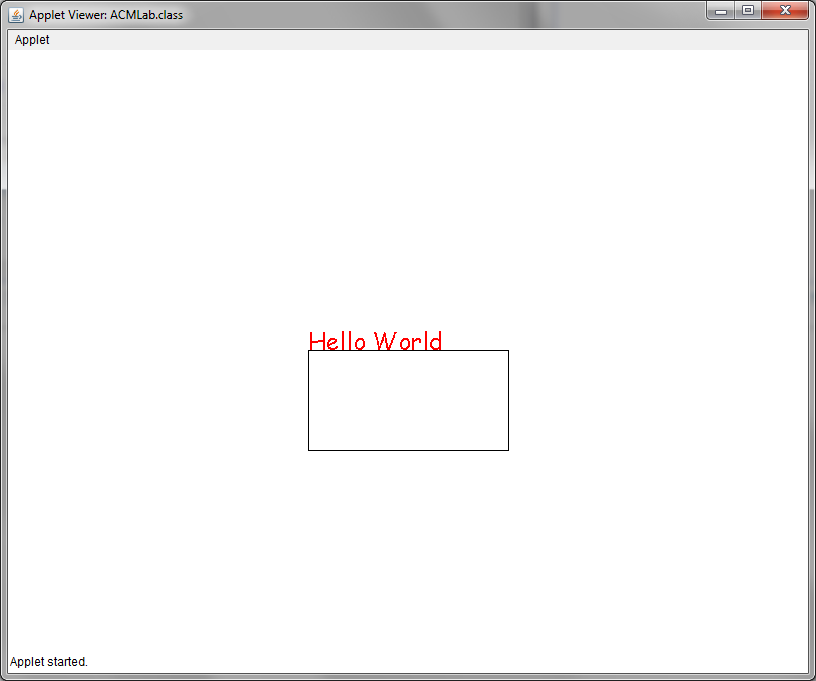
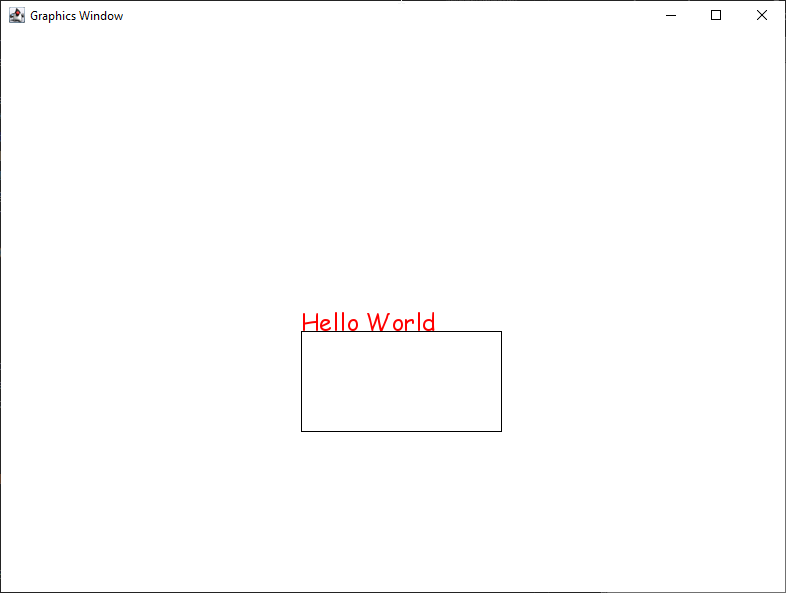
lab 4 media ACM

Changed region(s): [[0.0, 0.0, 1.0, 1.0], [0.3664, 0.4857, 0.6412, 0.6678]]

diff --git a/docs/labs/4-ACM.md b/docs/labs/4-ACM.md
@@ -106,7 +106,7 @@ The ```requestFocus``` call just allows the window to be the active window
 for both the mouse and the keyboard, which will be useful in the future.
 Other than changing the size, you should leave the ```init``` method alone.
 
-- **public static void main(String args[])**  You've seen line 19 and 21 before, but what may be interesting here is how empty our main is, and Line 20.  **Please don't spend too much time thinking about or copying Line 20 for your own future code**.  Think of this main function that we have as template (aka boilerplate) code that will be in most graphical programs, you should not need to modify the mains for the graphical programs that you create.  This small function tells java how to start your program.  If you notice, it just creates a ```new ACMLab``` (which it does not even save into a variable! :disappointed:) and then calls ```start```, which is an internal call that helps set up the graphics window and get everything started.  You should in most cases, leave this main alone.  Instead, just focus on putting your code for graphics programs in the method we'll discuss below, ```run```.
+- **public static void main(String args[])**  You've seen line 19 and 21 before, but what may be interesting here is how empty our main is, and Line 20.  **Please don't spend too much time thinking about or copying Line 20 for your own future code**.  Think of this main function that we have as template (aka boilerplate) code that will be in most graphical programs, you should not need to modify the mains for the graphical programs that you create.  This small function tells java how to start your program.  If you notice, it just creates a ```new ACMLab``` (which it does not even save into a variable! :disappointed:).  Then on the same line, it calls ```start```, which is an internal call for graphics program that helps set up the graphics window and get everything started.  You should in most cases, *leave the ```main``` alone for any graphics programs*.  Instead, just focus on putting your code for graphics programs in the method, ```run```, which we'll discuss next.
 
 - **public void run():** Lines 15-17 have the method that you should
 consider the starting point for your program, and it is in here that we
@@ -117,7 +117,7 @@ follows what one can think of as being a *collage model* for making
 graphics. Rather than creating graphics with a pen where you give
 commands to move the pen around the screen to draw things, the graphics
 package allows you to create objects which one can think of as cutting
-out shapes from a magazine. Once the objects are created, you then need
+out shapes from a piece of paper. Once the objects are created, you then need
 to add them to your canvas. The ```add``` command at the beginning of the
 line is reminiscent of that. On the other hand, what's inside the ```add```
 command – ```new GLabel("Hello World", 300, 300)```- can be thought of as
@@ -151,6 +151,12 @@ style and size, separated by hyphens. The style is optional (and will be
 left out in examples), and the font needs to match a font on your
 computer for it to work.
 
+### Extracting constants
+
+Remember that when we have numbers that we keep using, it makes sense to create final variables, which are constants in Java.  Constants are nice becuase they make the code more readable, and they allow us to make more changes that make more sense based on the code.  Let me show you an easy way that eclipse allows us to extract constants.  Click anywhere on the first 300 your label, right click and choose *source->extract constant*.  There, you'll get an option to name it something, I just named it ```START_X``` in caps, to denote that it's a constant and that it represents the starting X point for the code.  Notice there was an option to have it change all versions of 300 to that variable.  In our case, I think it makes sense to keep them separate, so **go ahead and do another extract constant of the other 300 to separate the x and y**.  From here on out I will refer to those as ```START_X``` and ```START_Y```.  Other things that folks end up extracting as constants would be things like the font and the color, which you should also practice with
+
+![](lab4media/media/extractconstant.gif)
+
 ## Adding Shapes
 
 Let's move on to work with the three most basic shapes in the ACM
@@ -160,8 +166,8 @@ how things behave. Let's start with a rectangle. To make a rectangle,
 create a ```GRect``` and then add it to the canvas. A ```new GRect``` takes in
 four arguments, the **x** and **y** position of where the Rectangle
 should be placed, and its **width** and **height** all in pixels. So for
-example, let's place a rectangle at ***300,300*** with a width of
-***200***, and a height of ***100***. You can place this code after
+example, let's place a rectangle at ```START_X, START_Y``` with a width of
+***200***, and a height of ***100*** (You can also consider extracting these constants as well). You can place this code after
 adding the label. Run your program again, and you should get something
 like the picture shown on the next page.
 
@@ -173,19 +179,19 @@ at 300, 300, each used it as a different anchor for where to place its
 object. In the rectangle, 300, 300, is the upper left of the rectangle,
 while for the text, it's the lower left. To understand how the oval
 works, let's go ahead and add an oval with the same arguments as the
-rectangle, so you're code inside run should look something like what's
-below…
+rectangle, so you're code inside ```run``` should look something like what's
+below…**but hopefully with more constants!**
 
 ```java
-GLabel label = new GLabel("Hello World", 300, 300);
+GLabel label = new GLabel("Hello World", START_X, START_Y);
 label.setColor(Color.red);
 label.setFont("Arial-24");
 add(label);
 
-GRect rect = new GRect(300, 300, 200, 100);
+GRect rect = new GRect(START_X, START_Y, 200, 100); //200 and 100 should be constants
 add(rect);
 
-GOval oval = new GOval(300, 300, 200, 100);
+GOval oval = new GOval(START_X, START_Y, 200, 100);
 add(oval);
 ```
 
@@ -213,10 +219,9 @@ this.
 
 The last class this lab will introduce today is ```GImage``` class, which
 lets us add rectangular images. ```GImage```s take three parameters, a
-filename, an x and y coordinate. The one difference is that the first
-parameter passed to an image must be the name of the image. Since it's
-like a file, that image should be in the same directory as your project.
-If it's somewhere else or you want your images to be in a folder, you
+filename, an x and y coordinate.
+The one difference is that the first parameter passed to an image must be the name of the image, including the extension. However, since we are loading something that is different than code, images will need to be in a media directory that is at the same level as src and bin folders.
+If it's somewhere else or you want an additional folder inside of your media folder, you
 should prefix any image with that folder name, like
 ```foldername/image.png```. If you'd like to get the size of any image
 object, after it's been created, you can call ```getWidth()``` or
